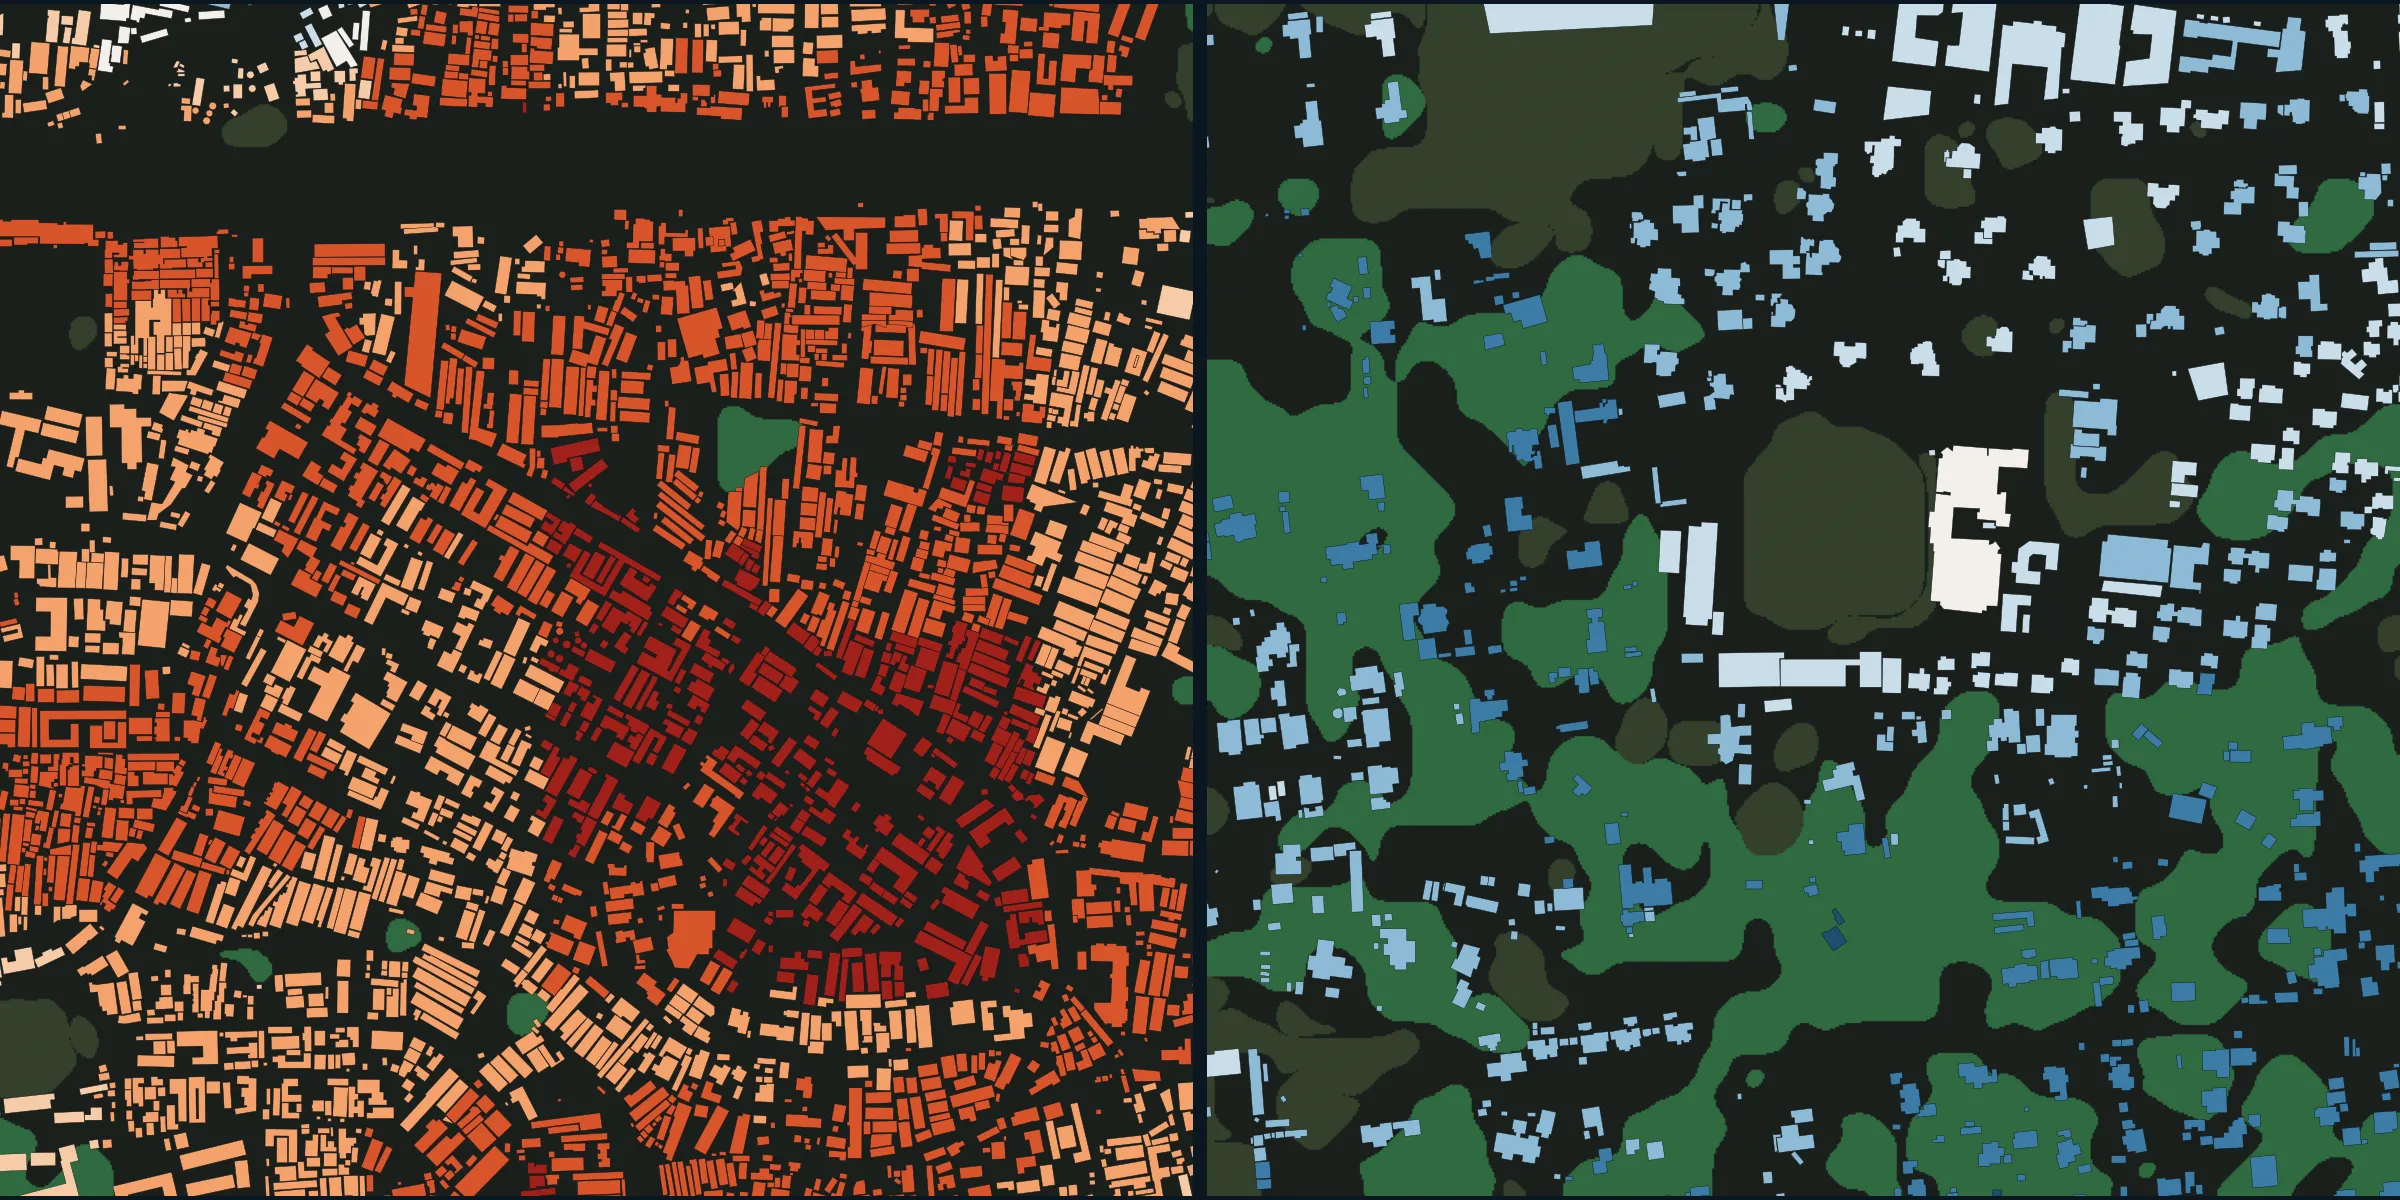
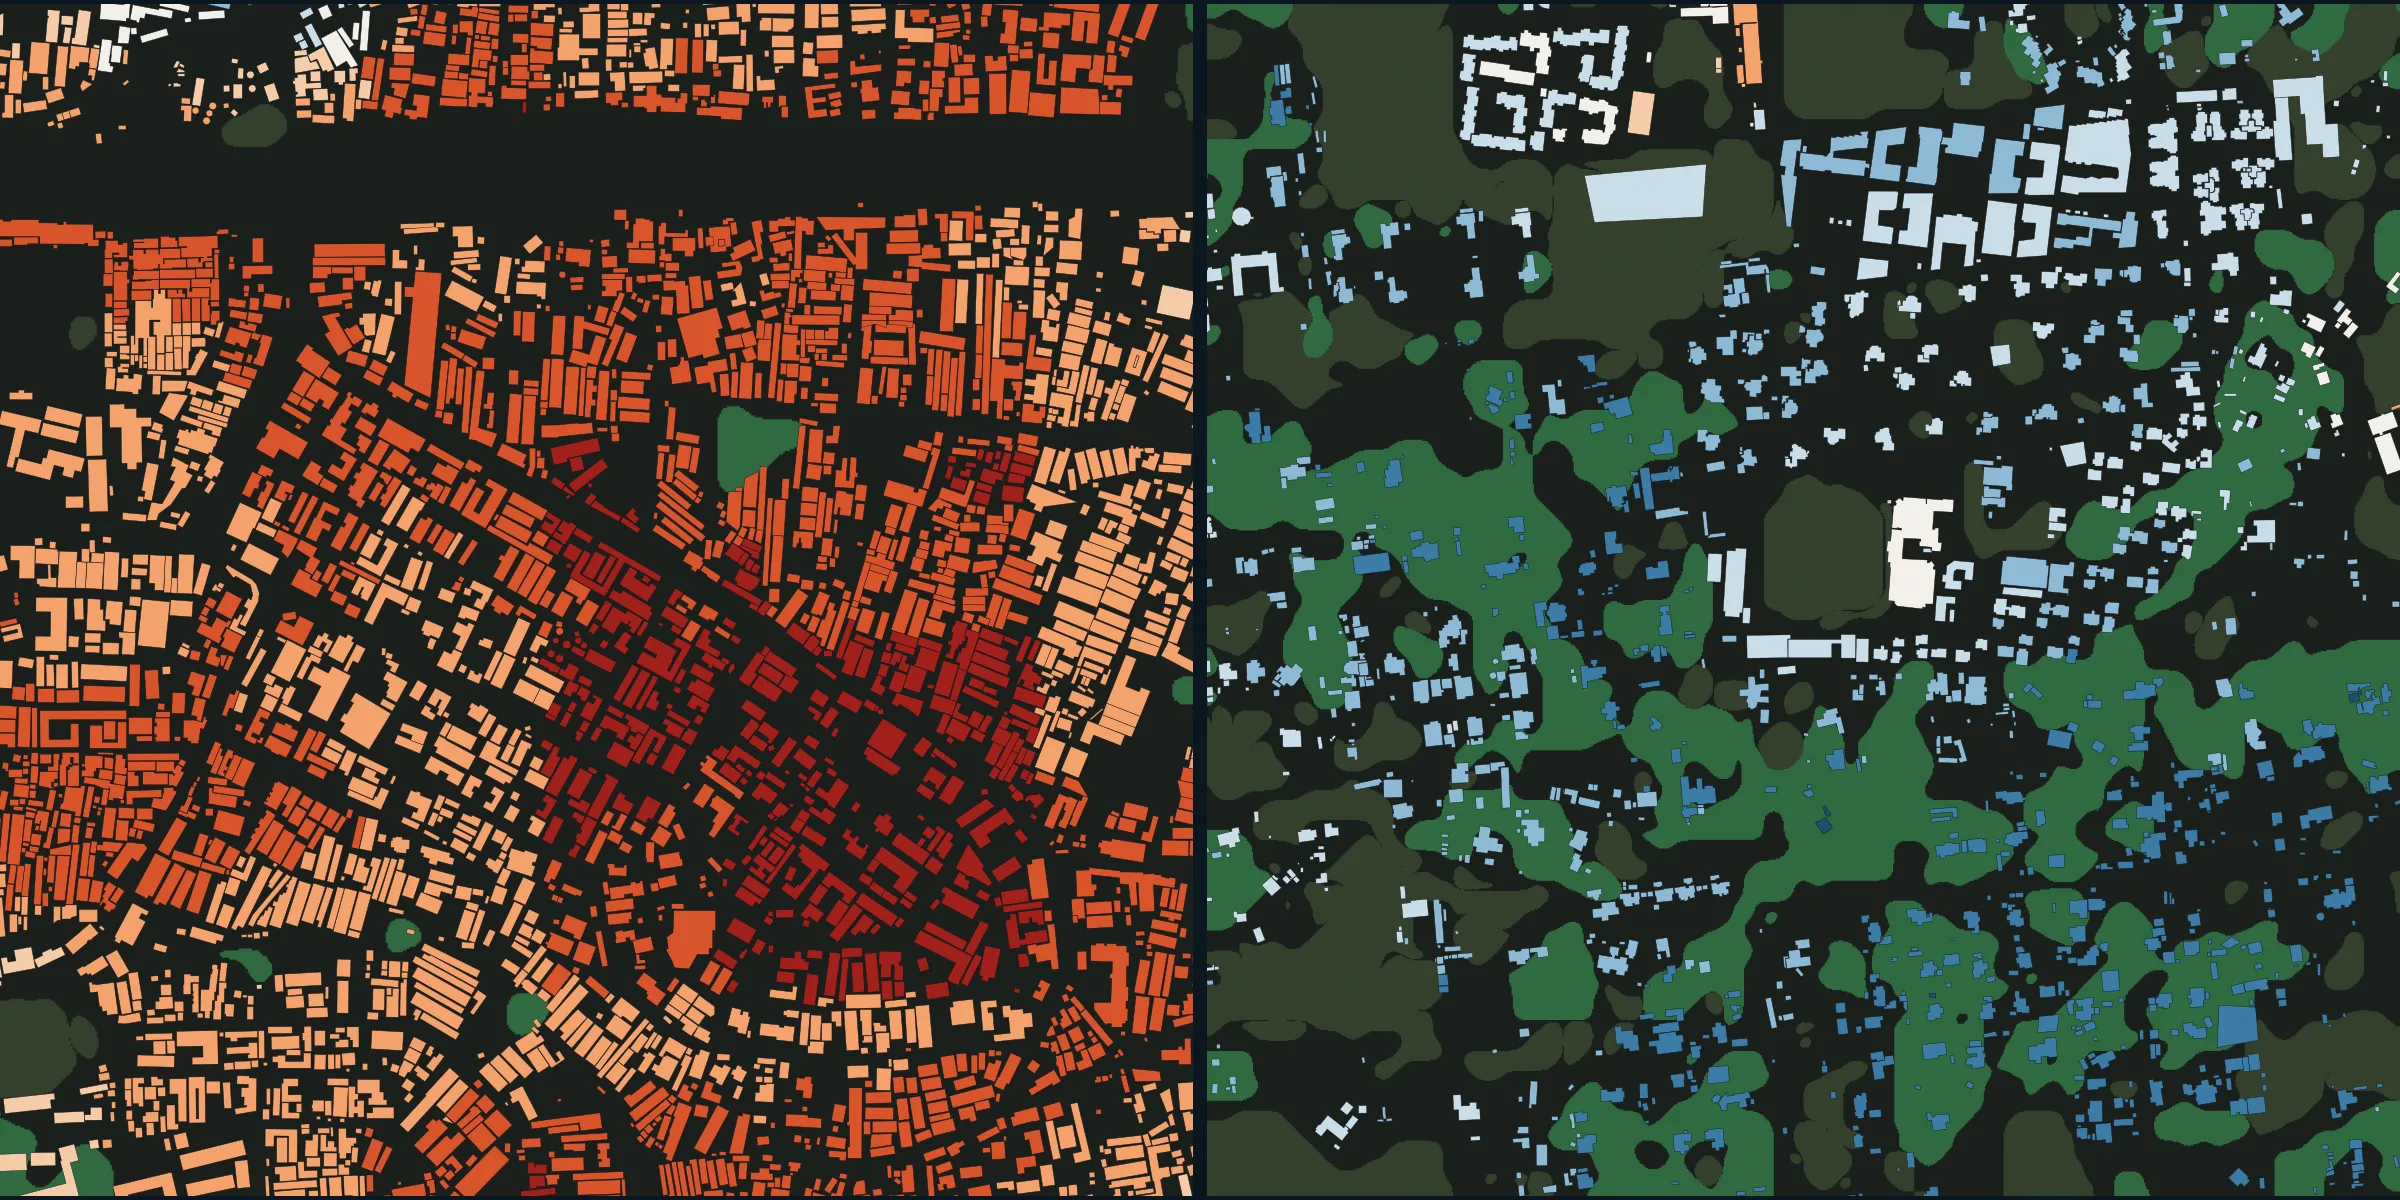
Cover: keep the sharp look, zoom Karen out to 1.2 km
Claude-Session: https://claude.ai/code/session_01TEB3jenNxwWorHtd8b7SHW

diff --git a/site/src/styles.css b/site/src/styles.css
@@ -230,16 +230,12 @@ img { max-width: 100%; height: auto; display: block; }
 .more-intro { border-top: 1px solid var(--rule); margin-top: 40px; }
 
 /* Cover (21 November 2026, D64): one screen. The masthead and the cover fill the first screen together; the two
-   rooftop squares fill the cover behind the title, either blurred (blur, photo) or sharp. Nothing moves. */
+   rooftop squares fill the cover, sharp, behind the title. Nothing moves. */
 .cover-screen { display: flex; flex-direction: column; min-height: 100vh; min-height: 100svh; }
 .hero { position: relative; flex: 1 1 auto; min-height: 460px; overflow: hidden; background: #0B1620; color: #FFFFFF; display: flex; flex-direction: column; justify-content: center; }
-.hero__bg { position: absolute; inset: 0; display: none; }
+.hero__bg { position: absolute; inset: 0; }
 .hero__bg img { display: block; width: 100%; height: 100%; object-fit: cover; }
-.hero__bg--photo img { width: 50%; float: left; }
-.hero--blur .hero__bg--render, .hero--sharp .hero__bg--render, .hero--photo .hero__bg--photo { display: block; }
-.hero--blur .hero__bg img, .hero--photo .hero__bg img { filter: blur(3px) saturate(1.15); transform: scale(1.03); }
-.hero__shade { position: absolute; inset: 0; background: linear-gradient(90deg, rgba(8, 14, 20, 0.62) 0%, rgba(8, 14, 20, 0.38) 50%, rgba(8, 14, 20, 0.12) 100%), linear-gradient(0deg, rgba(8, 14, 20, 0.55) 0%, rgba(8, 14, 20, 0) 18%); }
-.hero--sharp .hero__shade { background: linear-gradient(90deg, rgba(8, 14, 20, 0.66) 0%, rgba(8, 14, 20, 0.42) 45%, rgba(8, 14, 20, 0) 70%), linear-gradient(0deg, rgba(8, 14, 20, 0.6) 0%, rgba(8, 14, 20, 0) 18%); }
+.hero__shade { position: absolute; inset: 0; background: linear-gradient(90deg, rgba(8, 14, 20, 0.66) 0%, rgba(8, 14, 20, 0.42) 45%, rgba(8, 14, 20, 0) 70%), linear-gradient(0deg, rgba(8, 14, 20, 0.6) 0%, rgba(8, 14, 20, 0) 18%); }
 .hero__text { position: relative; width: 100%; padding: 40px max(20px, 6vw) 80px; }
 .hero h1 { color: #FFFFFF; font-size: clamp(44px, 7vw, 96px); line-height: 1.02; letter-spacing: -0.01em; margin: 0 0 18px; max-width: 12em; text-shadow: 0 1px 12px rgba(0, 0, 0, 0.35); }
 .hero__dek { font: 400 clamp(20px, 2.3vw, 30px)/1.3 var(--serif); color: #F2F4F6; max-width: 24em; margin: 0 0 26px; text-shadow: 0 1px 8px rgba(0, 0, 0, 0.4); }
@@ -252,9 +248,6 @@ img { max-width: 100%; height: auto; display: block; }
 .hero__note, .hero__credit { margin: 0; font: 400 12.5px/1.4 var(--sans); color: rgba(255, 255, 255, 0.88); text-shadow: 0 1px 4px rgba(0, 0, 0, 0.75); }
 .hero__credit { grid-column: 1 / -1; color: rgba(255, 255, 255, 0.74); }
 .hero__side { display: none; }
-.hero .for-photo { display: none; }
-.hero--photo .for-photo { display: inline; }
-.hero--photo .for-render { display: none; }
 .standfirst { font-size: 21px; line-height: 1.45; color: var(--ink-2); }
 .story-meta { font: 400 15px/1.5 var(--sans); color: var(--ink-2); border-top: 1px solid var(--rule); margin-top: 48px; padding-top: 18px; }
 .story-tags { margin: 0 0 10px; }
@@ -262,7 +255,7 @@ img { max-width: 100%; height: auto; display: block; }
 .story-tags dt { font-weight: 600; min-width: 6.5em; }
 .story-tags dd { margin: 0; }
 @media (max-width: 760px) {
-  .hero__shade, .hero--sharp .hero__shade { background: rgba(8, 14, 20, 0.6); }
+  .hero__shade { background: rgba(8, 14, 20, 0.6); }
   .hero__foot { grid-template-columns: 1fr; }
   .hero__side { display: inline; }
   .hero__text { padding-bottom: 120px; }

diff --git a/site/index.html b/site/index.html
@@ -27,15 +27,10 @@
       <a href="methods.html">Resources</a>
     </nav>
   </header>
-  <!-- Cover (21 Nov, D64): one screen, the two rooftop squares behind the title. Three looks to choose from:
-       blur (our rooftop render, blurred), photo (Maxar aerial photos, blurred), sharp (our render, not blurred).
-       Preview with ?cover=blur, ?cover=photo or ?cover=sharp; the class on the header below is the default. -->
-  <header class="hero hero--blur" id="cover" aria-labelledby="hero-title">
-    <div class="hero__bg hero__bg--render" aria-hidden="true">
+  <!-- Cover (21 Nov, D64): one screen, the two rooftop squares, sharp, behind the title (Stephane chose this look). -->
+  <header class="hero" id="cover" aria-labelledby="hero-title">
+    <div class="hero__bg" aria-hidden="true">
       <img src="figures/cover_rooftops.webp" width="2400" height="1200" alt="" fetchpriority="high">
-    </div>
-    <div class="hero__bg hero__bg--photo" aria-hidden="true">
-      <img src="figures/cover_aerial_kangemi.jpg" alt="" loading="lazy"><img src="figures/cover_aerial_karen.jpg" alt="" loading="lazy">
     </div>
     <div class="hero__shade" aria-hidden="true"></div>
     <div class="hero__text">
@@ -48,7 +43,7 @@
     <div class="hero__foot">
     <p class="hero__note"><span class="hero__side">Left: </span>Kangemi, Nairobi's hottest ward where people live</p>
     <p class="hero__note"><span class="hero__side">Right: </span>Karen, Nairobi's coolest ward</p>
-    <p class="hero__credit"><span class="for-render">Two squares 800 m across, at the same scale. Buildings from Overture Maps (ODbL), coloured by Landsat 8 and 9 ground temperature (USGS) on hot mornings: orange hotter and blue cooler than the city median; trees from ESA WorldCover 2021.</span><span class="for-photo">Two squares 800 m across, at the same scale. Imagery: Maxar, Nairobi mosaic 2019, via OpenAerialMap (CC BY-NC 4.0).</span></p>
+    <p class="hero__credit">Kangemi's square is 800 m across and Karen's 1.2 km across. Buildings from Overture Maps (ODbL), coloured by Landsat 8 and 9 ground temperature (USGS) on hot mornings: orange hotter and blue cooler than the city median; trees from ESA WorldCover 2021.</p>
     </div>
   </header>
 </div>

diff --git a/site/src/main.js b/site/src/main.js
@@ -8,14 +8,6 @@ import './styles.css';
 import './map/map.css';
 import './story/story.css';
 
-// Cover look (21 Nov, D64): ?cover=blur, ?cover=photo or ?cover=sharp previews the three options.
-const coverLook = new URLSearchParams(window.location.search).get('cover');
-const hero = document.querySelector('.hero');
-if (hero && ['blur', 'photo', 'sharp'].includes(coverLook)) {
-  hero.classList.remove('hero--blur', 'hero--photo', 'hero--sharp');
-  hero.classList.add(`hero--${coverLook}`);
-}
-
 // Thin, static reading progress bar (the one allowed exception in DESIGN_RULES.md).
 const bar = document.querySelector('.progress__bar');
 const updateProgress = () => {

diff --git a/src/analysis/cover.py b/src/analysis/cover.py
@@ -1,6 +1,6 @@
 """Cover image for the story (21 November 2026, D62): rooftops of the hottest and the coolest ward, side by side.
 
-Each panel is a square of the same size (COVER_M metres): Karen's is centred on its densest square kilometre of buildings, and
+Each panel is a square of the given size (COVER_M: Kangemi 800 m, Karen 1.2 km, so not the same scale): Karen's is centred on its densest square kilometre of buildings, and
 Kangemi's on the square with the least green ground, so it shows rooftops only (D64), so both are shown at the same scale. Buildings (Overture footprints) are coloured by the hot-season
 surface temperature of the 100 m around them, as the difference from the county median (the heat-diff colours
 used on every map); the ground between them is ESA WorldCover 2021 land cover (trees green, grass and farmland olive), drawn
@@ -28,7 +28,8 @@ from src.config import PROCESSED, RASTERS, ROOT, UTM, get_logger  # noqa: E402
 log = get_logger("cover")
 OUT = ROOT / "site" / "public" / "figures"
 PANEL_M = 1200.0   # the story's two rooftop map steps (Eastlands, Karen)
-COVER_M = 800.0    # the cover panels (21 Nov, D64): 800 m lets Kangemi show only rooftops, with no valley or trees
+COVER_M = {"Kangemi": 800.0, "Karen": 1200.0}   # cover squares (21 Nov, D64): 800 m lets Kangemi show only rooftops;
+                                                 # Karen is zoomed out to 1.2 km so more of its houses show
 WARDS = ("Kangemi", "Karen")
 GREEN = (10, 20, 30, 40, 90, 95)   # WorldCover trees, shrubs, grass, cropland, wetland, mangrove
 BREAKS = [-99, -6, -4, -2, -0.5, 0.5, 2, 4, 6, 99]
@@ -89,8 +90,8 @@ def main() -> dict:
     if True:
         for ax, ward in zip(axes, WARDS):
             g = wards.loc[ward].geometry
-            cx, cy = least_green_centre(b, g, COVER_M) if ward == "Kangemi" else densest_centre(b, g)
-            h = COVER_M / 2
+            cx, cy = least_green_centre(b, g, COVER_M[ward]) if ward == "Kangemi" else densest_centre(b, g)
+            h = COVER_M[ward] / 2
             box = (cx - h, cy - h, cx + h, cy + h)
             # Ground: ESA WorldCover 2021 (10 m) drawn as smooth shapes, which stay sharp at this scale where the 10 m
             # Sentinel-2 photo looked blurry (21 Nov, D63): trees green, grass and farmland olive, the rest dark.
@@ -112,7 +113,7 @@ def main() -> dict:
             # no scale bar: the page states the scale in its caption, so a blurred cover carries no stray marks
 
             lon, lat = gpd.GeoSeries.from_xy([cx], [cy], crs=UTM).to_crs(4326).iloc[0].coords[0]
-            out[ward] = dict(centre_lonlat=[round(lon, 5), round(lat, 5)], n_buildings=int(len(sel)),
+            out[ward] = dict(panel_m=COVER_M[ward], centre_lonlat=[round(lon, 5), round(lat, 5)], n_buildings=int(len(sel)),
                              median_building_lst_c=round(float(sel.lst_c.median()), 1),
                              median_building_diff_c=round(float(sel.lst_anomaly_c.median()), 1),
                              green_share_pct=round(float(100 * np.isin(cls, GREEN).mean()), 1))
@@ -139,7 +140,7 @@ def main() -> dict:
                        share_hotter_than_median_pct=round(float(100 * (sel.lst_anomaly_c > 0).mean()), 1),
                        iron_sheet_households_pct=round(float(roofs.loc[sc, "iron_sheets_pct"]), 1))
     extra = json.loads((ROOT / "analysis" / "results_extra.json").read_text())
-    extra["cover"] = dict(panel_m=COVER_M, views_panel_m=PANEL_M, wards=out, views=vout,
+    extra["cover"] = dict(views_panel_m=PANEL_M, wards=out, views=vout,
                           gap_c=round(out["Kangemi"]["median_building_lst_c"] - out["Karen"]["median_building_lst_c"], 1), note="Buildings coloured by hot-season LST of the surrounding 100 m, difference from the county median; Sentinel-2 2026 underneath (D62)")
     (ROOT / "analysis" / "results_extra.json").write_text(json.dumps(extra, indent=2))
     log.info("cover: %s", out)

diff --git a/DECISIONS.md b/DECISIONS.md
@@ -198,3 +198,4 @@ Choices made during unattended runs, with the reason. Newest at the bottom.
 - **Why:** Stephane found the old cover crowded and the dark title band distracting, and asked for the Kangemi square to show only rooftops.
 - **Kangemi square:** the cover squares are now 800 m across (COVER_M); Kangemi's is the 800 m square, at least 40 % inside the ward, with the least WorldCover green ground (2.5 %); Karen's stays centred on its densest square kilometre. The story's rooftop map steps keep their 1.2 km squares (PANEL_M), so their numbers do not change. The cover carries no temperature numbers, since a square picked for having no trees is hotter than the ward as a whole.
 - **Photo look:** Maxar's 2019 Nairobi mosaic (0.3 m) from OpenAerialMap, licence CC BY-NC 4.0 (non-commercial, with credit). Files go in site/public/figures/cover_aerial_kangemi.jpg and cover_aerial_karen.jpg.
+- **Update, same evening:** Stephane chose the sharp look; the blurred and photo looks were removed from the code, so there is no ?cover= switch. Karen's square is zoomed out to 1.2 km so more of its houses show, while Kangemi's stays at 800 m. The two squares are therefore not at the same scale, and the cover note says so.
